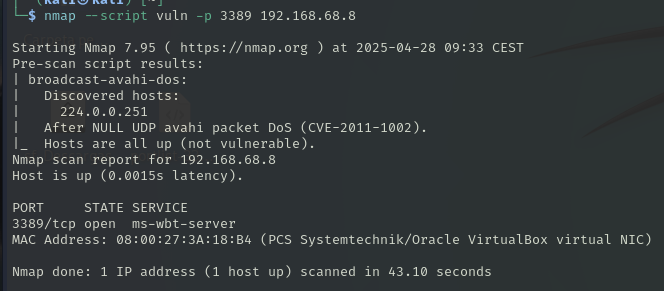
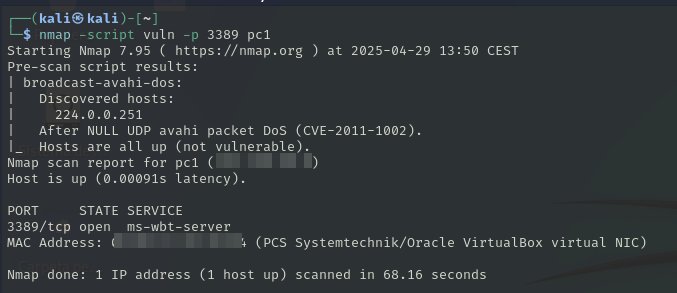
writeup pc1

Changed region(s): [[0.0, 0.0, 0.994, 0.866], [0.0, 0.8969, 0.753, 1.0]]

diff --git a/Haking Ético/P7-AttackingEnterpriseNetworks/Writeups/PC1/README.md b/Haking Ético/P7-AttackingEnterpriseNetworks/Writeups/PC1/README.md
@@ -1,0 +1,90 @@
+# Writeup del PC1
+
+## Acceso al sistema
+
+Lo primero que haremos será comprobar que nuestra kali esta en la misma red que el PC1.
+
+![alt text](img/image.png)
+
+Hemos realizado un escaneo de la red 192.168.68.0/24. Le hemos asignado a la ip del PC1 un nombre de host para no revelar la IP.
+En el escaneo podemos ver como tiene abierto el puero 3389 (RDP de Windows). Más abajo también nos ha encontrado datos como el nombre del ordenador en el que pone Win 7 con lo que confirmamos que es un Windows 7.
+
+![alt text](img/image2.png)
+
+Vamos a realizar un escaneo de vulnerabilidades al puerto del PC1 a ver si podemos encontrar alguna. No nos ha encontrado nada por lo que vamos a buscar por internet.
+
+![alt text](img/image4.png)
+
+Buscaremos alguna vulnerabilidad conocida de RDP para Windows 7.
+
+![alt text](img/image4.1.png)
+
+Y encontramos una vulnerabilidad llamada BlueKeep
+
+![alt text](img/image4.2.png)
+
+Buscaremos la vulnerabilidad en metaexploit y la seleccionaremos.
+
+![alt text](img/image4.3.png)
+
+Estas son las opciones que podemos configurar en el exploit.
+
+![alt text](img/image5.png)
+
+Configuraremos las opciones necesarias para que funcione correctamente el exploit.
+
+![alt text](img/image6.png)
+
+![alt text](img/image7.png)
+
+Una vez configurado el exploit lo ejecutaremos. Podemos ver como nos ha creado una shell reverse en el PC1 a través del exploit.
+
+![alt text](img/image8.png)
+
+Vemos como somos usuarios del sistema autorizados por lo que tenemos permisos de administrador.
+
+![alt text](img/image14.png)
+
+También podemos navegar por los diferentes directorios del sistema.
+
+![alt text](img/image9.png)
+
+## Pivoting
+
+Vamos a utilizar un modulo de metaexploit para identificar si podemos encontrar otras redes que haya en el sistema.
+
+Primero confirmamos que tenemos guardada la sesión de meterpreter del PC1.
+
+![alt text](img/image10.png)
+
+El módulo autoruote nos permitira averiguar si hay otras redes. Miramos las opciones del módulo y solo tendremos que agregar la sesión que tenemos activa.
+
+![alt text](img/image11.png)
+
+Elegimos la sesión y ejecutamos el módulo. Vemos que nos ha encontrado 2 redes.
+
+![alt text](img/image12.png)
+
+Para verlo mejor podemos utilizar el comando `route` y nos aparecen la red 192.168.68.0/24 que es la que conocemos y también nos aparece otra la cuál es la 10.10.10.0/24 por lo cuál podemos seguir investigando esta red a ver si podemos seguir vulnerando máquinas.
+
+![alt text](img/image13.png)
+
+
+## Robo de credenciales
+
+Como tenemos acceso a través de meterpreter podemos probar a robar las credenciales de algún usuario del sistema. Esto lo haremos con el comando `hashdump`.
+
+![alt text](img/image15.png)
+
+Copiamos la linea que nos sale de los usuarios del sistema 1000 (R@v3n) y 1001 (usuario). 
+
+![alt text](img/image16.png)
+
+Con la herramienta JohnRipper podemos hacerle fuerza bruta a ver si podemos conseguir alguna contraseña.
+Vemos que nos ha encontrado que la contraseña de usuario es usuario.
+
+![alt text](img/image17.png)
+
+Vamos a hacer una prueba desde el sistema comprometido y efectivamente nos podemos loguear con usuario y acceder al sistema.
+
+![alt text](img/image18.png)
